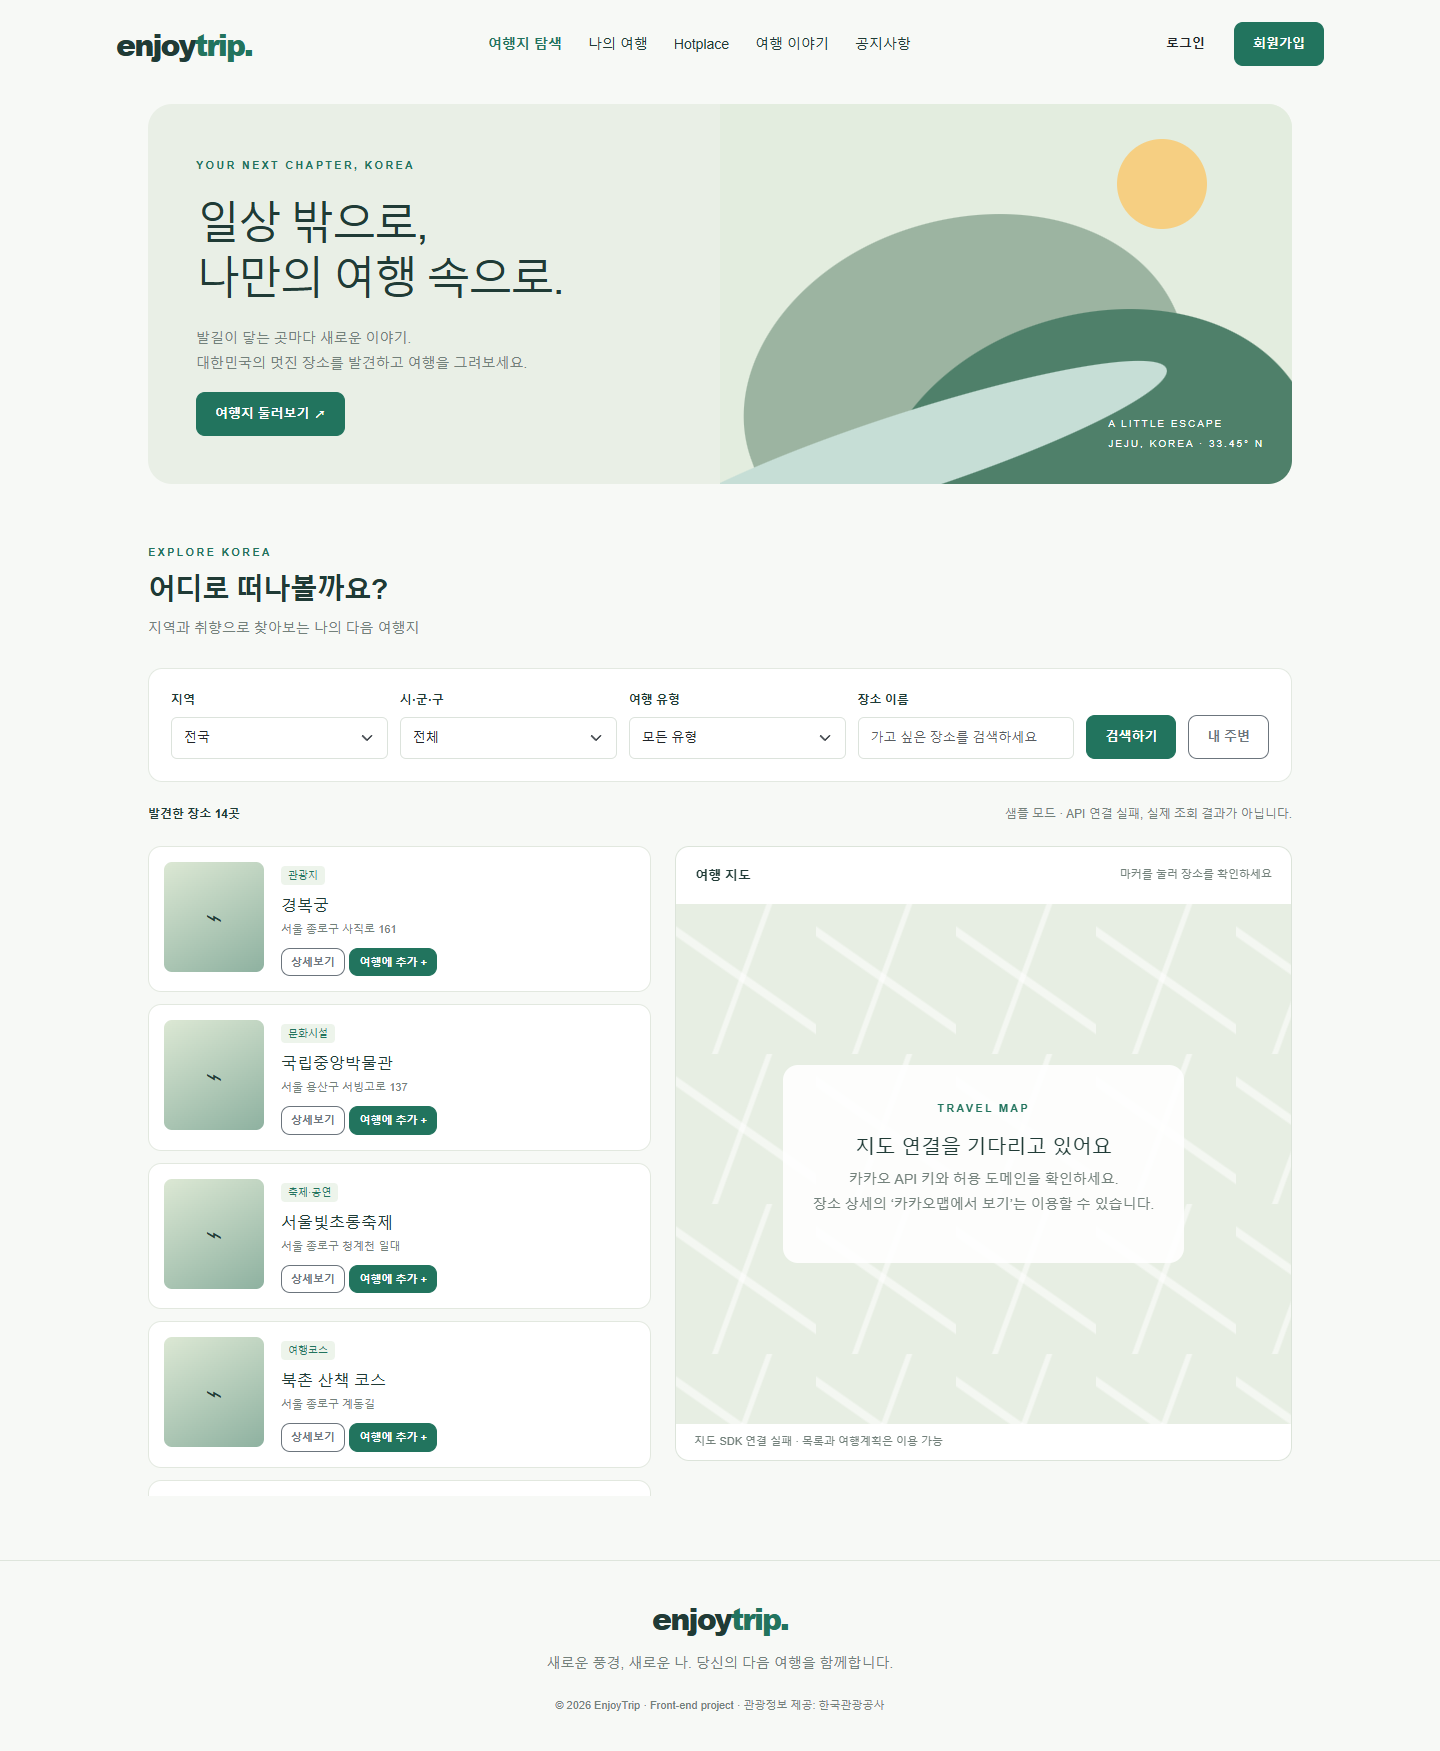
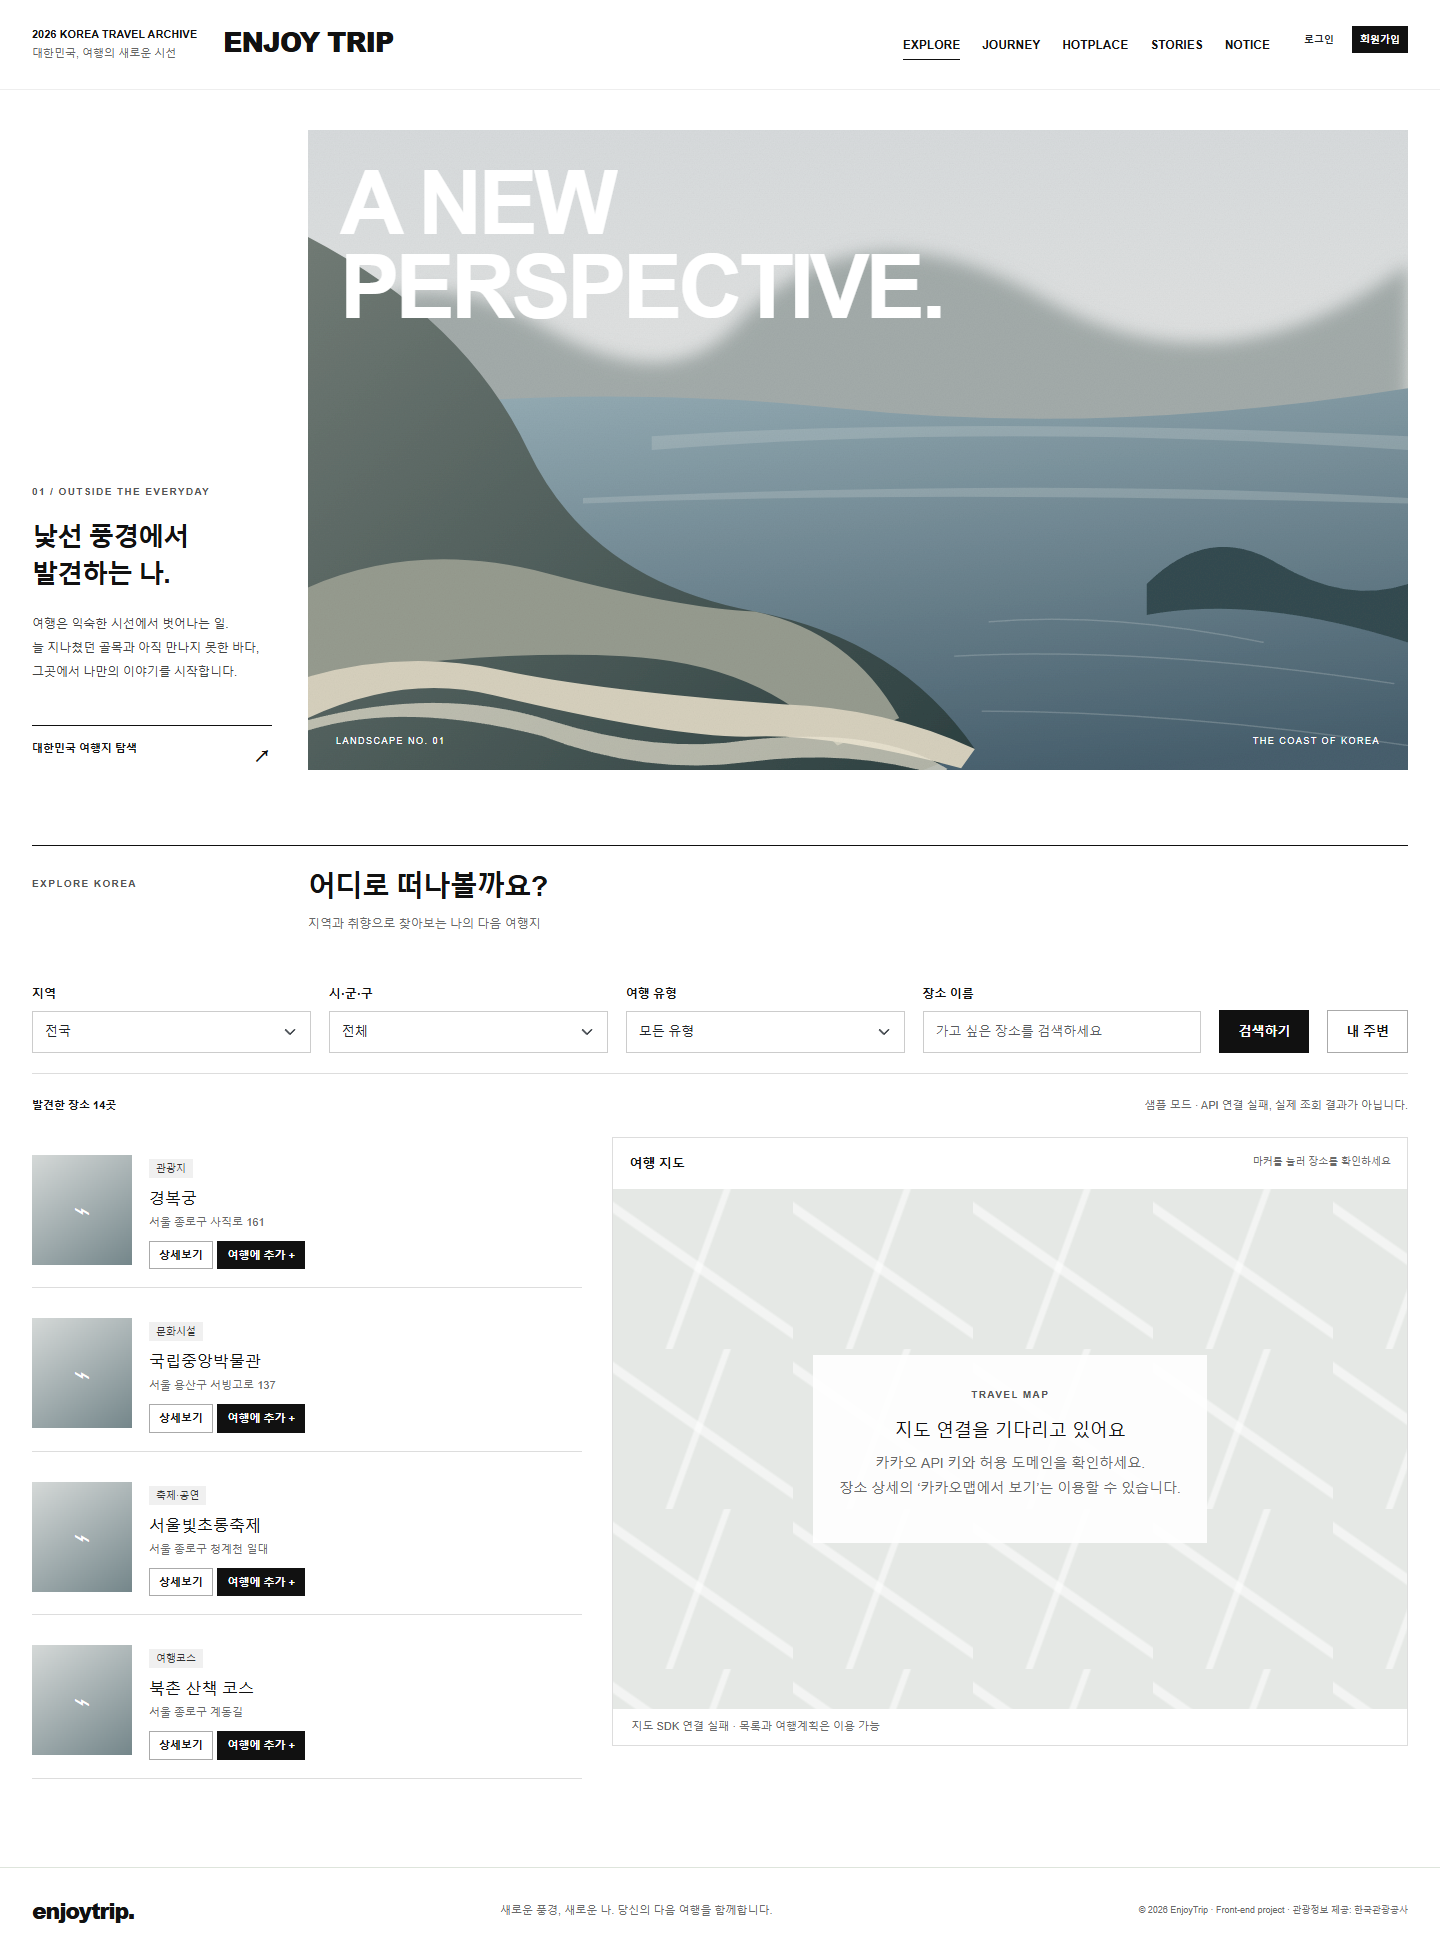
design: apply KUAD inspired editorial travel layout

diff --git a/css/style.css b/css/style.css
@@ -1,1 +1,4 @@
 :root{--ink:#203b36;--green:#22745e;--paper:#f7f9f6;--muted:#73817b}*{box-sizing:border-box}body{margin:0;background:var(--paper);color:var(--ink);font-family:Arial,'Malgun Gothic',sans-serif}header{min-height:88px;display:flex;align-items:center;gap:32px;max-width:1280px;margin:auto;padding:20px 36px}a{color:inherit;text-decoration:none}.brand{font-size:30px;font-weight:900;letter-spacing:-1.8px;white-space:nowrap}.brand span{color:var(--green)}nav{display:flex;gap:26px;margin:auto;font-size:14px}nav a.active{color:var(--green);font-weight:bold}#account{display:flex;align-items:center;gap:10px;font-size:13px}main{max-width:1208px;margin:auto;padding:0 32px 64px}.hero{display:grid;grid-template-columns:1fr 1fr;min-height:370px;background:#e9efe6;border-radius:24px;overflow:hidden;margin:16px 0 55px}.hero>div:first-child{padding:48px}.eyebrow{font-size:11px;letter-spacing:2.2px;color:var(--green);font-weight:700}h1{font-size:44px;line-height:1.25;letter-spacing:-2px;margin:20px 0}p{color:var(--muted);font-size:14px;line-height:1.8}.btn{border-radius:9px;padding:11px 18px;font-size:13px;font-weight:600;white-space:nowrap}.btn-primary{background:var(--green);border-color:var(--green)}.btn-primary:hover{background:#165341;border-color:#165341}.hero-art{position:relative;overflow:hidden;background:#e3eddf}.sun{position:absolute;width:90px;height:90px;border-radius:50%;background:#f6cf82;top:35px;right:85px}.mountain{position:absolute;width:450px;height:340px;border-radius:48% 52% 0 0;transform:rotate(-20deg)}.back{background:#9cb4a1;top:115px;left:20px}.front{background:#4f806a;top:210px;left:150px}.river{position:absolute;background:#c6ded6;width:550px;height:80px;bottom:-10px;left:-90px;transform:rotate(-18deg);border-radius:50%}.art-label{position:absolute;bottom:30px;right:28px;color:white;letter-spacing:2px;font-size:10px;line-height:2}.section-heading{margin-bottom:26px}h2{font-size:28px;font-weight:700;letter-spacing:-1px;margin:10px 0}h3{font-size:20px}.search-bar{display:flex;align-items:end;gap:12px;background:white;padding:22px;border:1px solid #e3e9e1;border-radius:14px}label{display:block;font-size:12px;font-weight:600;flex:1}label input,label select,label textarea{margin-top:8px}.form-control,.form-select{font-size:13px;border-color:#dce3dc;min-height:42px}.form-control:focus,.form-select:focus{border-color:var(--green);box-shadow:0 0 0 3px #22745e15}.result-line{display:flex;justify-content:space-between;gap:15px;font-size:12px;margin:23px 0}#data-status{color:var(--muted)}.explore-layout{display:grid;grid-template-columns:44% 1fr;gap:24px}.spot-list{display:flex;flex-direction:column;gap:12px;max-height:650px;overflow:auto}.spot-card{display:flex;gap:17px;background:white;padding:15px;border:1px solid #e2e8df;border-radius:13px}.spot-art{min-width:100px;width:100px;height:110px;object-fit:cover;border-radius:8px;background:linear-gradient(150deg,#dce8d4,#8eb1a0);display:grid;place-items:center;font-size:30px}.spot-copy{flex:1}.badge-type{font-size:10px;color:var(--green);background:#edf4eb;padding:4px 7px;border-radius:4px}.spot-card h3{font-size:16px;margin:10px 0 5px}.spot-card p{font-size:11px;margin-bottom:8px}.spot-card .btn{padding:5px 9px;font-size:11px}.map-wrap{background:white;border:1px solid #dce4da;border-radius:14px;overflow:hidden;align-self:start;position:sticky;top:18px}.map-title{display:flex;justify-content:space-between;padding:19px;font-size:13px}.map-title span{color:var(--muted);font-size:11px}#map{height:520px;background-color:#e7eee3;background-image:linear-gradient(35deg,transparent 47%,#fff8 48%,#fff8 51%,transparent 52%),linear-gradient(110deg,transparent 46%,#fff8 47%,#fff8 49%,transparent 50%);background-size:140px 150px;display:grid;place-items:center}#map .fallback{background:#ffffffe8;padding:30px;text-align:center;border-radius:15px;max-width:85%}#map-status{padding:8px 18px;margin:0;font-size:11px}.panel{background:white;border:1px solid #dfe6dc;padding:28px;border-radius:15px}.narrow{max-width:560px;margin:auto}.form-grid{display:grid;grid-template-columns:2fr 1fr 1fr;gap:15px;margin-bottom:18px}textarea{min-height:100px}#route-list{padding:0;list-style:none;margin-top:24px}#route-list li{padding:15px;background:var(--paper);margin:8px 0;border-radius:8px;display:flex;gap:8px;align-items:center}#route-list li span{flex:1}.tile-grid{display:grid;grid-template-columns:repeat(3,1fr);gap:20px}.tile{background:white;padding:24px;border:1px solid #e0e6db;border-radius:12px}.tile img{width:100%;height:180px;object-fit:cover;border-radius:8px}.board-toolbar{display:flex;gap:15px;margin-bottom:20px}.board-row{background:white;display:flex;justify-content:space-between;gap:15px;border-bottom:1px solid #e4e9e0;padding:20px;cursor:pointer}.board-row small{color:var(--muted)}.empty{padding:40px;text-align:center;background:white;border-radius:12px;color:var(--muted)}dialog{border:0;border-radius:18px;padding:35px;width:510px;max-width:94vw;max-height:90vh;box-shadow:0 20px 100px #0003}dialog::backdrop{background:#182c2766}dialog label{margin:15px 0}.close-button{position:absolute;right:16px;top:10px;background:none;border:0;font-size:25px}#toast{position:fixed;bottom:30px;left:50%;transform:translateX(-50%);background:var(--ink);color:white;padding:14px 25px;border-radius:10px;z-index:9999;display:none;font-size:13px}footer{border-top:1px solid #dee5dc;padding:35px;text-align:center}footer p{margin-top:10px}footer small{font-size:11px;color:var(--muted)}button:focus-visible,a:focus-visible{outline:3px solid #c49b42;outline-offset:3px}.error{color:#b83a39}.detail-photo{width:100%;max-height:240px;object-fit:cover;border-radius:10px}.actions{display:flex;gap:8px;flex-wrap:wrap;margin-top:20px}[hidden]{display:none!important}@media(max-width:900px){header{flex-wrap:wrap;padding:20px;gap:15px}nav{order:3;width:100%;overflow:auto;margin:0;gap:20px}#account{margin-left:auto}.hero>div:first-child{padding:30px}h1{font-size:34px}.search-bar{flex-wrap:wrap}.search-bar label{flex:1 1 40%}.explore-layout{grid-template-columns:1fr}.map-wrap{position:static;order:-1}#map{height:330px}.spot-list{max-height:none}.tile-grid{grid-template-columns:repeat(2,1fr)}}@media(max-width:560px){main{padding:0 16px 40px}.hero{grid-template-columns:1fr;margin-bottom:35px}.hero-art{height:160px}.hero{min-height:0}.back{top:50px}.front{top:110px}.sun{width:60px;height:60px;top:15px}.hero h1{font-size:34px}.hero>div:first-child{padding:28px}.tile-grid,.form-grid{grid-template-columns:1fr}.result-line{flex-direction:column}.board-row{flex-direction:column}.spot-art{width:75px;min-width:75px;height:100px}.panel{padding:20px}.search-bar{padding:16px}h2{font-size:24px}}
+/* Editorial direction inspired by the KUAD 2026 reference. */
+:root{--ink:#121212;--green:#111;--paper:#fff;--muted:#696969}body{background:#fff;color:#111;font-family:Arial,'Malgun Gothic',sans-serif}header{max-width:none;padding:25px 32px;gap:26px;min-height:90px;border-bottom:1px solid #eee;align-items:flex-start}.site-caption{font-size:11px;font-weight:700;line-height:1.7;white-space:nowrap}.site-caption span{font-weight:400;color:#666}.brand{font-size:27px;letter-spacing:-1.1px;line-height:1.2}.brand span{color:#111}nav{margin-left:auto;margin-right:0;gap:22px;font-size:12px;font-weight:700;padding-top:6px}nav a{padding-bottom:5px}nav a.active{border-bottom:1px solid #111}#account{padding-top:1px;font-size:11px}#account .btn{padding:5px 7px;font-size:10px}main{max-width:none;padding:0 32px 80px}.hero{background:none;display:grid;grid-template-columns:240px 1fr;gap:36px;border-radius:0;min-height:0;margin:40px 0 75px;overflow:visible}.hero-copy{display:flex;flex-direction:column;justify-content:flex-end}.hero>div:first-child{padding:0}.eyebrow{color:#555;font-size:10px;letter-spacing:1.4px}.hero h1{font-size:26px;font-weight:700;letter-spacing:-1px;line-height:1.4;margin:20px 0}.hero p{font-size:12px;line-height:2;color:#444}.hero-link{display:flex;justify-content:space-between;border-top:1px solid #111;padding-top:14px;margin-top:25px;font-size:11px;font-weight:700}.hero-link span{font-size:20px}.hero-visual{position:relative;height:min(65vw,640px);min-height:400px;overflow:hidden;background:#a3afb3}.hero-visual>img{width:100%;height:100%;object-fit:cover}.visual-title{position:absolute;top:32px;left:32px;color:#fff;font-size:clamp(38px,6.2vw,100px);font-weight:700;line-height:.94;letter-spacing:-4px}.visual-caption{position:absolute;bottom:22px;left:28px;right:28px;display:flex;justify-content:space-between;font-size:9px;letter-spacing:1.5px;color:#fff}.section-heading{display:grid;grid-template-columns:240px 1fr;gap:0 36px;margin-bottom:30px;border-top:1px solid #111;padding-top:24px}.section-heading .eyebrow{grid-row:1/3;padding-top:6px}h2{font-size:28px;font-weight:600;margin:0 0 10px;letter-spacing:-1px}.section-heading p{margin:0;font-size:12px}.search-bar{padding:20px 0;background:none;border:0;border-bottom:1px solid #ddd;border-radius:0;gap:18px}.form-control,.form-select{border-radius:0;border-color:#ccc;background-color:white}.btn{border-radius:0}.btn-primary{background:#111;border-color:#111}.btn-primary:hover{background:#444;border-color:#444}.btn-outline-secondary{border-color:#aaa;color:#111}.explore-layout{grid-template-columns:40% 1fr;gap:30px}.spot-card{border:0;border-bottom:1px solid #ddd;border-radius:0;padding:18px 0;background:none}.spot-art{border-radius:0;background:linear-gradient(145deg,#d5d9d8,#74868a);color:#fff}.badge-type{border-radius:0;background:#f0f0f0;color:#333}.map-wrap{border-radius:0;border:1px solid #ddd}.map-title{padding:16px}.map-title span{font-size:10px}#map{background-color:#e5e8e5;background-size:180px 160px}#map .fallback{border-radius:0;padding:26px}#map .fallback h3{font-size:18px}.panel,.tile,.empty{border-radius:0}.tile{border:0;border-top:1px solid #111;padding:20px 0}.tile img{border-radius:0}.tile-grid{gap:28px}#route-list li{border-radius:0}.board-row{padding:24px 0}.board-row strong{font-weight:500}dialog{border-radius:0}#toast{border-radius:0}footer{text-align:left;display:flex;flex-wrap:wrap;align-items:center;justify-content:space-between;gap:20px;padding:30px 32px}footer p{margin:0;font-size:11px}footer small{font-size:9px}footer .brand{font-size:22px}.spot-list{max-height:650px}.result-line{font-size:11px}@media(min-width:1600px){main{max-width:1600px;margin:auto}.hero{grid-template-columns:280px 1fr}.section-heading{grid-template-columns:280px 1fr}}@media(max-width:1100px){header{flex-wrap:wrap;gap:18px}.site-caption{display:none}nav{gap:16px}.hero{grid-template-columns:190px 1fr;gap:24px}.section-heading{grid-template-columns:190px 1fr;gap:0 24px}.hero-visual{min-height:350px}.visual-title{letter-spacing:-2px}.search-bar{flex-wrap:wrap}.search-bar label{flex:1 1 35%}}@media(max-width:700px){header{padding:20px;align-items:center}.brand{font-size:25px}#account{margin-left:auto}nav{order:3;width:100%;margin:4px 0 0;justify-content:space-between;gap:15px;font-size:10px;overflow:auto}main{padding:0 20px 50px}.hero{display:flex;flex-direction:column;gap:22px;margin:25px 0 45px}.hero-visual{order:-1;height:430px;min-height:0}.visual-title{font-size:55px;top:22px;left:20px;letter-spacing:-3px}.hero-copy{display:grid;grid-template-columns:1fr 1fr;gap:0 20px}.hero-copy .eyebrow{grid-column:1/3}.hero h1{font-size:24px;margin:15px 0}.hero p{font-size:10px;margin:15px 0}.hero-link{grid-column:1/3;margin-top:5px}.section-heading{display:block;padding-top:20px}.section-heading .eyebrow{display:block;margin-bottom:15px}h2{font-size:24px}.explore-layout{grid-template-columns:1fr}.map-wrap{order:-1;position:static}.spot-list{max-height:none}.map-title span{max-width:50%;text-align:right}.search-bar{gap:12px}.search-bar label{flex-basis:40%}.visual-caption{left:20px;right:20px;font-size:8px}.tile-grid{grid-template-columns:1fr}footer{padding:25px 20px;display:block}footer p{margin:15px 0}#map{height:300px}.hero-visual>img{object-position:45% center}}
+@media(max-width:700px){.visual-title{font-size:clamp(28px,8.5vw,55px);letter-spacing:-1.5px}}

diff --git a/index.html b/index.html
@@ -1,7 +1,7 @@
 <!doctype html>
 <html lang="ko"><head><meta charset="UTF-8"><meta name="viewport" content="width=device-width, initial-scale=1"><title>EnjoyTrip · 나를 위한 여행의 시작</title><link href="https://cdn.jsdelivr.net/npm/bootstrap@5.3.3/dist/css/bootstrap.min.css" rel="stylesheet"><link rel="stylesheet" href="css/style.css"></head>
-<body><header><a class="brand" href="#explore">enjoy<span>trip.</span></a><nav aria-label="메인 메뉴"><a href="#explore">여행지 탐색</a><a href="#plan">나의 여행</a><a href="#hotplace">Hotplace</a><a href="#board">여행 이야기</a><a href="#notice">공지사항</a></nav><div id="account"></div></header>
-<main><section class="hero"><div><span class="eyebrow">YOUR NEXT CHAPTER, KOREA</span><h1>일상 밖으로,<br>나만의 여행 속으로.</h1><p>발길이 닿는 곳마다 새로운 이야기.<br>대한민국의 멋진 장소를 발견하고 여행을 그려보세요.</p><a class="btn btn-primary" href="#explore">여행지 둘러보기 ↗</a></div><div class="hero-art" aria-hidden="true"><div class="sun"></div><div class="mountain back"></div><div class="mountain front"></div><div class="river"></div><span class="art-label">A LITTLE ESCAPE<br>JEJU, KOREA · 33.45° N</span></div></section>
+<body><header><div class="site-caption">2026 KOREA TRAVEL ARCHIVE<br><span>대한민국, 여행의 새로운 시선</span></div><a class="brand" href="#explore">ENJOY TRIP</a><nav aria-label="메인 메뉴"><a href="#explore">EXPLORE</a><a href="#plan">JOURNEY</a><a href="#hotplace">HOTPLACE</a><a href="#board">STORIES</a><a href="#notice">NOTICE</a></nav><div id="account"></div></header>
+<main><section class="hero"><div class="hero-copy"><span class="eyebrow">01 / OUTSIDE THE EVERYDAY</span><h1>낯선 풍경에서<br>발견하는 나.</h1><p>여행은 익숙한 시선에서 벗어나는 일.<br>늘 지나쳤던 골목과 아직 만나지 못한 바다,<br>그곳에서 나만의 이야기를 시작합니다.</p><a class="hero-link" href="#explore">대한민국 여행지 탐색 <span>↗</span></a></div><div class="hero-visual"><img src="resources/coast.svg" alt="산과 바다가 만나는 해안 풍경 일러스트"><div class="visual-caption"><span>LANDSCAPE NO. 01</span><span>THE COAST OF KOREA</span></div><span class="visual-title">A NEW<br>PERSPECTIVE.</span></div></section>
 <div class="section-heading"><span id="section-tag" class="eyebrow">EXPLORE KOREA</span><h2 id="section-title">어디로 떠나볼까요?</h2><p id="section-desc">지역과 취향으로 찾아보는 나의 다음 여행지</p></div>
 <section id="explore" class="view"><form id="search" class="search-bar"><label>지역<select id="region" class="form-select"></select></label><label>시·군·구<select id="district" class="form-select"><option value="">전체</option></select></label><label>여행 유형<select id="category" class="form-select"></select></label><label>장소 이름<input id="keyword" class="form-control" placeholder="가고 싶은 장소를 검색하세요"></label><button class="btn btn-primary">검색하기</button><button type="button" class="btn btn-outline-secondary" id="nearby">내 주변</button></form><div class="result-line"><strong id="result-count"></strong><span id="data-status" role="status"></span></div><div class="explore-layout"><div id="spots" class="spot-list"></div><div class="map-wrap"><div class="map-title"><b>여행 지도</b><span>마커를 눌러 장소를 확인하세요</span></div><div id="map"></div><p id="map-status" class="small"></p></div></div><button id="more" class="btn btn-outline-secondary mt-3" hidden>더 보기</button></section>
 <section id="plan" class="view" hidden><div class="panel"><p>장소 카드의 ‘여행에 추가’를 눌러 경로를 만들어 보세요. 드래그 또는 화살표로 순서를 바꿀 수 있습니다.</p><form id="plan-form"><div class="form-grid"><label>여행 이름<input class="form-control" name="title" required maxlength="80" placeholder="나의 설레는 여행"></label><label>출발일<input class="form-control" name="date" type="date" required></label><label>여행경비 (원)<input class="form-control" name="budget" type="number" min="0" value="0" required></label></div><label>상세 계획<textarea class="form-control" name="memo" maxlength="2000" placeholder="일정별 시간, 이동 방법과 준비물을 적어보세요"></textarea></label><ol id="route-list"></ol><button class="btn btn-primary">여행계획 저장</button></form></div><h3 class="mt-4">저장한 여행</h3><div id="saved-plans" class="tile-grid"></div></section>

diff --git a/README.md b/README.md
@@ -68,3 +68,7 @@ F106 뉴스 크롤링/DB 저장과 선택 예시 F111~F114(날씨·사진 추천
 - [한국관광공사 국문관광정보 서비스](https://www.data.go.kr/tcs/dss/selectApiDataDetailView.do?publicDataPk=15101578)
 - [Kakao 지도 문서](https://apis.map.kakao.com/web/documentation/)
 - [Bootstrap](https://getbootstrap.com/)
+
+## 디자인 버전
+
+`main`은 초기 구현을 보존하고 `design/kuad-reference`에서 디자인을 변경했습니다. [KUAD 2026](https://kuadarchive.com/2026/)의 흰 배경, 검정 타이포그래피, 왼쪽 설명과 오른쪽 대형 비주얼, 넓은 여백을 참고했습니다. 여행 기능과 어울리도록 해안 일러스트를 직접 제작했고 레퍼런스의 사진·문구는 복사하지 않았습니다. 메뉴와 검색·회원·여행·커뮤니티 기능은 그대로 이용할 수 있습니다.
